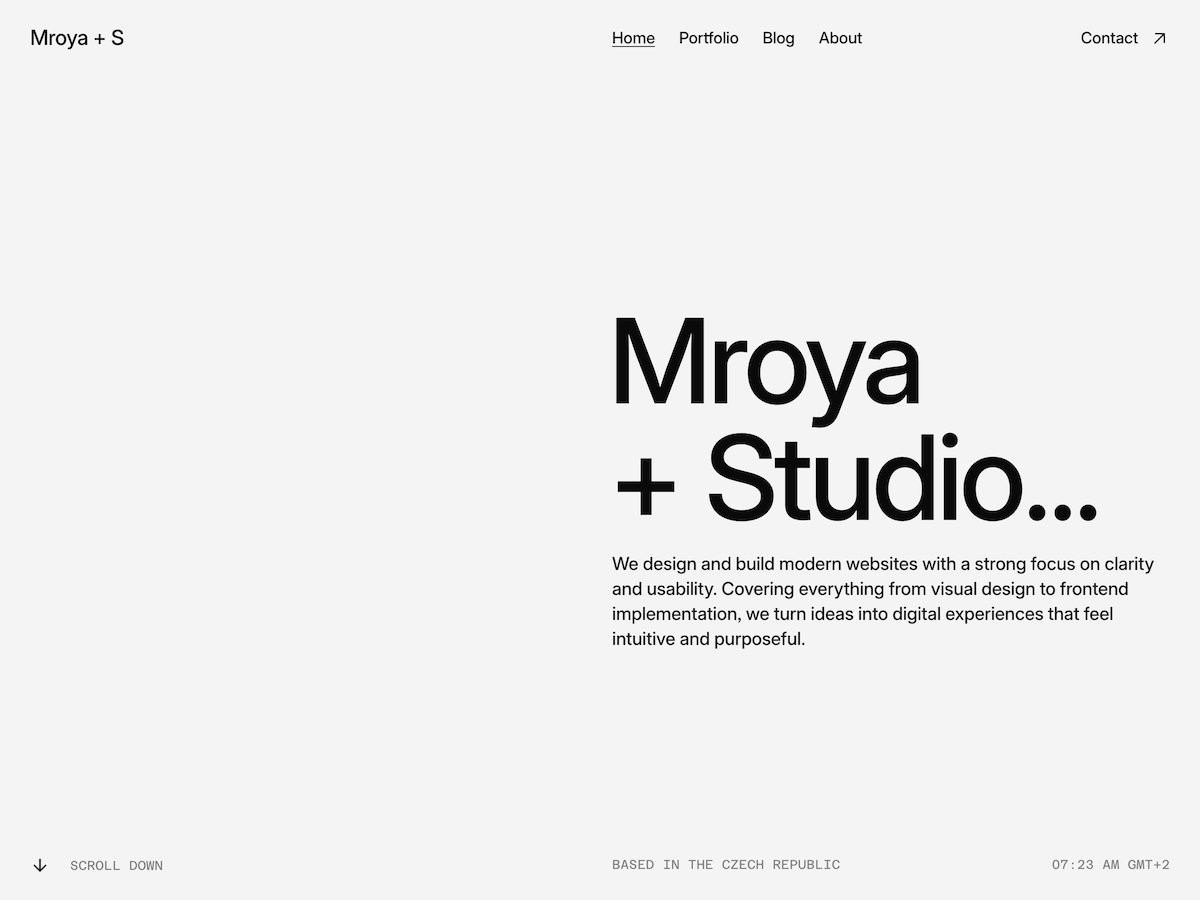
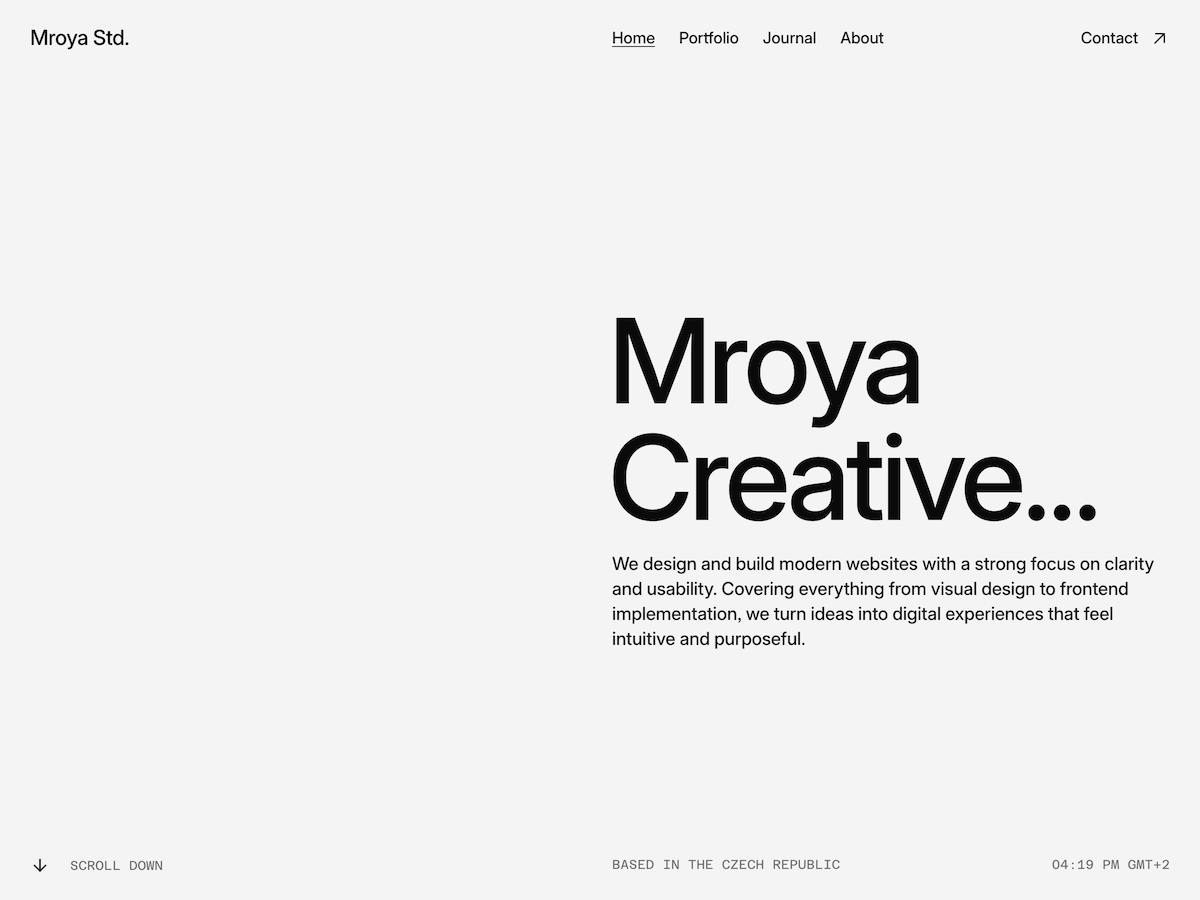
Release

diff --git a/style.css b/style.css
@@ -4,9 +4,9 @@ Theme URI: https://mroya.eu/portfolio/mroya/
 Author: Uladzimir Kulesh
 Author URI: https://mroya.eu/
 Description: Mroya is a modern, versatile WordPress block theme designed for web designers, developers and agencies. The theme features are tailored to each audience and a rich library of reusable block patterns, allowing you to craft unique layouts effortlessly. Fully responsive, accessible, and performance-optimized, Mroya empowers you to build stunning, professional websites with ease.
-Requires at least: 6.6
-Tested up to: 6.9
-Requires PHP: 5.6
+Requires at least: 6.7
+Tested up to: 7.0
+Requires PHP: 7.2
 Version: 1.0.0
 License: GNU General Public License v2 or later
 License URI: URI: https://www.gnu.org/licenses/old-licenses/gpl-2.0.html

diff --git a/patterns/section/section-hero-2.php b/patterns/section/section-hero-2.php
@@ -24,7 +24,7 @@
 				<!-- wp:group {"metadata":{"name":"<?php echo esc_html_x( 'Block', 'Name for the section block area', 'mroya' ); ?>"},"className":"section__block","style":{"spacing":{"blockGap":"1rem"}},"layout":{"type":"default"}} -->
 				<div class="wp-block-group section__block">
 					<!-- wp:heading {"level":1,"className":"is-style-text-giant"} -->
-					<h1 class="wp-block-heading is-style-text-giant"><?php echo wp_kses_post( _x( 'Mroya<br>+ Studio<span class="dot">.</span><span class="dot">.</span><span class="dot">.</span>', 'Hero section title', 'mroya' ) ); ?></h1>
+					<h1 class="wp-block-heading is-style-text-giant"><?php echo wp_kses_post( _x( 'Mroya<br>Creative<span class="dot">.</span><span class="dot">.</span><span class="dot">.</span>', 'Hero section title', 'mroya' ) ); ?></h1>
 					<!-- /wp:heading -->
 
 					<!-- wp:group {"layout":{"type":"constrained","contentSize":"640px","wideSize":"100%","justifyContent":"left"}} -->